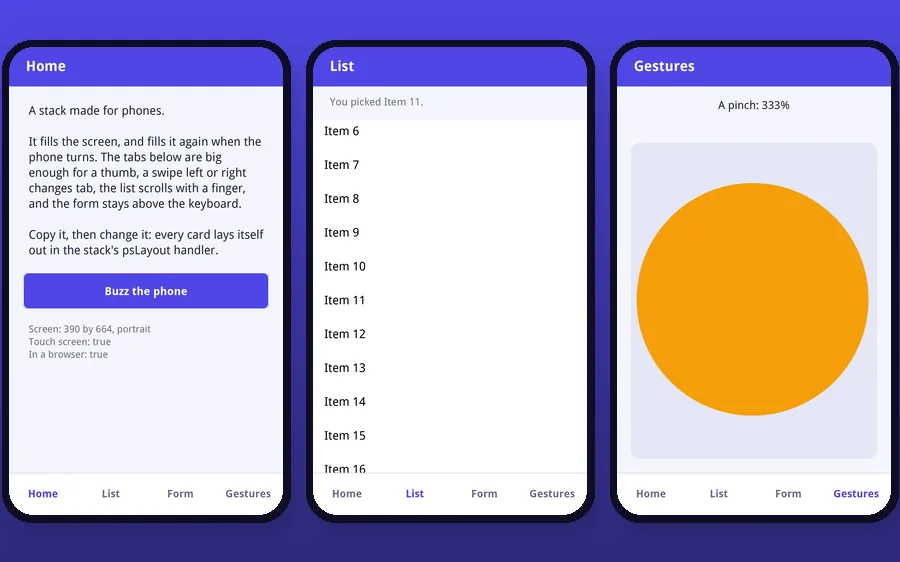
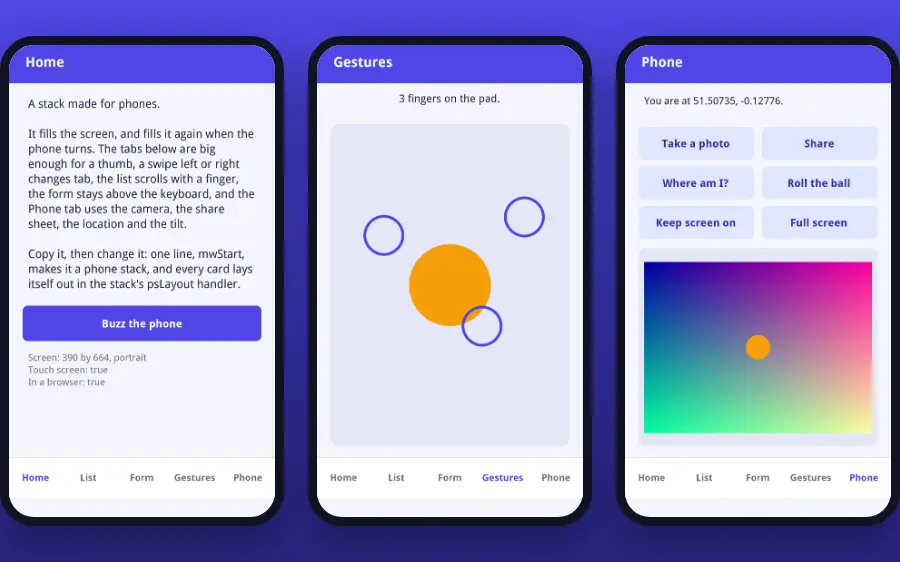
Mobile Web: a guide, Stacks for Phones, and a cleaner Phone Starter
The Dictionary's guides get "Stacks for Phones" (with Deploying Your
Application): the Phone Starter, mwStart, laying out for any screen,
touch, gestures and every finger, scrolling with a finger, the keyboard,
the phone itself, trying it in the IDE and putting it online.

The Phone Starter's buttons lose their border, its gallery picture shows
the Phone card and three fingers, and its descriptions in the Stack
Player and Home's gallery name the camera, location, tilt and share
sheet.

Claude-Session: https://claude.ai/code/session_01Kg4TH5QerDGt6XaJHK18Ja

diff --git a/tools/web-player/build_player.py b/tools/web-player/build_player.py
@@ -315,7 +315,8 @@ SAMPLES = [
     {'title': 'Phone Starter', 'source': 'stacks',
      'files': ['Phone Starter.oxtstack'], 'image': 'Phone Starter.webp',
      'description': 'A stack to copy for phones, made with the Mobile Web library: tabs for a '
-                    'thumb, swipes, a list that scrolls with a finger, a form above the keyboard.',
+                    'thumb, swipes, pinches and every finger, a list that scrolls with a finger, a '
+                    'form above the keyboard, and the camera, location, tilt and share sheet.',
      'tags': ['Phones', 'Touch', 'Starter']},
     {'title': 'Tour', 'files': ['Tour.livecode'],
      'description': 'Cards, a widget, a palette window and a script error, caught and shown.',

diff --git a/ide/Documentation/guides/Stacks for Phones.md b/ide/Documentation/guides/Stacks for Phones.md
@@ -1,0 +1,268 @@
+---
+group: deployment
+---
+# Stacks for Phones
+
+## Introduction
+
+A stack built as an HTML5 standalone runs in any modern browser, and that
+includes the browser of a phone or a tablet. Nothing needs installing:
+the user opens a link, and the stack is there. With the Mobile Web
+library, the same stack fills the phone's screen, turns with it, takes
+taps, swipes, pinches and more than one finger, stays clear of the
+on-screen keyboard and the notch, and uses the phone itself: its camera,
+its location, its tilt, its share sheet.
+
+The library is made to feel like xTalk. One line readies a stack, and
+what happens on the phone comes to the stack as messages, by the names
+LiveCode's iOS and Android engines use, sent to the control under the
+finger the way mouse messages are. On a desktop the library answers as a
+desktop would and sends nothing, so a stack can be made and tried in the
+IDE and then built for phones without changes.
+
+![](images/phone-starter.png)
+
+Figure 1 – The Phone Starter on a phone: its Home, Gestures and Phone cards
+
+## Start from the Phone Starter
+
+The quickest way in is the **Phone Starter**, in the gallery of the
+Home window and in the Stack Player. It is a stack to copy: a header, a
+tab bar for a thumb, and five cards that show each part of the library.
+
+* **Home**: what the screen is, and a buzz.
+* **List**: a long list that scrolls with a finger, where a tap picks a
+  line.
+* **Form**: fields that stay above the keyboard.
+* **Gestures**: swipes, a pinch that resizes a dot, a long press, and a
+  ring under each finger.
+* **Phone**: a photo from the camera, the share sheet, where the phone
+  is, a ball that rolls as the phone tilts, the screen kept on, and the
+  browser's bars hidden.
+
+Save a copy of it, change its cards, and keep its `psLayout` handler,
+which puts every control in its place for the size of the screen.
+
+## One line: mwStart
+
+```
+on preOpenStack
+   mwStart
+end preOpenStack
+```
+
+`mwStart` readies the default stack, or the stack it names, for a phone:
+
+* A **resizable** stack fills the browser's window, and fills it again
+  when the phone turns or the browser's bars come and go. It gets
+  `resizeStack` each time, as on a desktop, so a `resizeStack` handler or
+  the Geometry Manager lays it out.
+* A stack of a **fixed size** that is too big for the window, such as one
+  made for a desktop, is scaled down to fit, and taps still land on the
+  controls under them. While it fits, it is left as it is.
+* The gestures and the other messages below start coming.
+
+To choose by hand, name the screen as its third parameter: `mwStart
+empty, empty, "fit"`, or call `mwFillScreen` or `mwFitStack`. `mwStop`
+stops it all and gives the page back its own look.
+
+## Laying out for any screen
+
+Phones come in many sizes, and each one turns. Lay a stack out in its
+`resizeStack` handler from the size it has, not from numbers fixed when
+it was made:
+
+```
+on resizeStack pWidth, pHeight
+   set the rect of field "Notes" to 16, 72, pWidth - 16, pHeight - 80
+   set the rect of group "Tabs" to 0, pHeight - 64, pWidth, pHeight
+   pass resizeStack
+end resizeStack
+```
+
+`mwViewport()` says more about the screen, as an array:
+
+| Key | What it is |
+|-----|------------|
+| `width`, `height` | the part of the page that can be seen, without what the keyboard covers |
+| `keyboard` | how many pixels at the bottom the on-screen keyboard covers (0 when it is down) |
+| `top`, `right`, `bottom`, `left` | the safe-area insets: the pixels under a notch, a rounded corner or the home bar |
+| `orientation` | `portrait` or `landscape` |
+
+Keep buttons inside the insets, and give a short, wide screen (a phone
+on its side) a layout of its own: the Phone Starter puts its form in two
+columns there and makes its bars thinner.
+
+The current card gets `orientationChanged` when the phone turns.
+
+## Touch
+
+A finger is the mouse. A tap sends `mouseDown` and `mouseUp`, a drag
+moves the mouse, and every stack that works with a mouse works with a
+finger. Make what a finger taps big enough: about 44 pixels high or
+more.
+
+Two taps close together are a double click, as on a desktop: the second
+one sends `mouseDoubleDown` and `mouseDoubleUp`, not `mouseUp`. A button
+that a user may tap twice quickly, such as a toggle, handles both:
+
+```
+on mouseUp
+   toggleTheLight
+end mouseUp
+
+on mouseDoubleUp
+   toggleTheLight
+end mouseDoubleUp
+```
+
+### Gestures
+
+After `mwStart` these come too, to the control under the finger, and on
+up the message path to its group, card and stack, as a mouse message
+does. A card script can handle every swipe on the card, and a control
+can keep its own by handling them without passing them.
+
+| Message | When |
+|---------|------|
+| `swipe pDirection` | a quick stroke of one finger: `left`, `right`, `up` or `down` |
+| `pinchStart pX, pY` | two fingers touch |
+| `pinch pScale, pX, pY` | they move: pScale is their distance over the one at the start |
+| `pinchEnd pScale` | they let go |
+| `longPress pX, pY` | a finger held still for about half a second |
+
+```
+-- in a card's script
+on swipe pDirection
+   if pDirection is "left" then go next card
+   if pDirection is "right" then go previous card
+end swipe
+```
+
+`mwLongPressed()`, asked in `mouseUp`, tells the end of a long press from
+a tap.
+
+### Every finger
+
+For drawing, games and anything with more than one finger, each finger
+sends messages of its own, to the control it touched first:
+
+| Message | When |
+|---------|------|
+| `touchStart pId, pX, pY` | a finger touches |
+| `touchMove pId, pX, pY` | it moves (at most once a frame) |
+| `touchEnd pId, pX, pY` | it lets go |
+| `touchRelease pId, pX, pY` | the browser took the touch away, as for a call |
+
+`pId` is the same number in all of one finger's messages, so a script
+can follow several at once:
+
+```
+on touchStart pId, pX, pY
+   create graphic ("Finger" && pId)
+   set the style of it to "oval"
+   set the rect of it to pX - 20, pY - 20, pX + 20, pY + 20
+end touchStart
+
+on touchMove pId, pX, pY
+   set the loc of graphic ("Finger" && pId) to pX, pY
+end touchMove
+
+on touchEnd pId
+   delete graphic ("Finger" && pId)
+end touchEnd
+```
+
+### Scrolling with a finger
+
+A finger dragged over a field selects its text. To scroll a field or a
+group with a finger instead, call `mwDragScroll` in its `mouseDown`: it
+follows the finger, and glides on when the finger lets go. A list that
+takes a tap as picking a line asks `mwDragMoved()` in its `mouseUp`, to
+leave out the end of a drag:
+
+```
+on mouseDown
+   mwDragScroll the long id of me
+end mouseDown
+
+on mouseUp
+   if mwDragMoved() then exit mouseUp
+   answer "You picked" && the value of the clickLine
+end mouseUp
+```
+
+## The keyboard
+
+A phone's keyboard covers the bottom of the screen while a field has the
+focus. The current card gets `keyboardActivated` when it comes up (or
+changes its height) and `keyboardDeactivated` when it goes. How much
+it covers is the `keyboard` element of the array `mwViewport()` gives:
+
+```
+put mwViewport() into tScreen
+set the bottom of field "Notes" to tScreen["height"] - 8
+```
+
+ Move what is being typed in above it, and when another field gets the
+focus while the keyboard stays up, in `openField`, do the same: no
+keyboard message comes then.
+
+## The phone itself
+
+| Handler | What it does |
+|---------|--------------|
+| `mwPickPhoto pSource, pMaxWidth, pMaxHeight` | takes a photo (`camera`, `front camera`) or picks a picture (`library`), as a new image on the card; waits for it, and `the result` is `cancel` when there is none |
+| `mwStartSensor pSensor`, `mwStopSensor pSensor` | read `location`, `heading`, `acceleration` or `rotation rate`: the card gets `locationChanged`, `headingChanged`, `accelerationChanged` or `rotationRateChanged`, and `trackingError` when the user says no |
+| `mwSensorReading(pSensor)`, `mwSensorAvailable(pSensor)` | a sensor's last reading, and whether the browser can read it |
+| `mwShare pText, pURL, pTitle` | opens the phone's share sheet (or copies, where there is none) |
+| `mwKeepAwake true` | keeps the screen on while the page is open |
+| `mwFullScreen true`, `mwIsFullScreen()` | hides the browser's bars, and shows them again |
+| `mwVibrate pMilliseconds` | buzzes the phone |
+
+```
+on mouseUp
+   mwPickPhoto "camera", 800, 800
+   if the result is "cancel" then exit mouseUp
+   set the rect of last image to the rect of graphic "Frame"
+end mouseUp
+```
+
+A browser keeps some of these for the user's own choice:
+
+* The camera, the share sheet, the full screen and, on an iPhone, the
+  motion sensors open **only from a tap**: call them in `mouseUp`, not in
+  `openCard` or a timer.
+* The location, the share sheet, keeping the screen on and the motion
+  sensors need a page served over **https**.
+* The browser asks the user before it gives the location (and on an
+  iPhone, the motion): a no comes as `trackingError`.
+* What a phone cannot do, the handler says in `the result` (`not
+  supported`, `not available`), and the stack goes on: an iPhone cannot
+  buzz or hide Safari's bars, for one.
+
+Stop a sensor when it is not needed, in `closeCard`: reading one uses the
+battery.
+
+## Trying it in the IDE
+
+Every handler works in the IDE. `mwIsWeb()` and `mwIsTouchScreen()` are
+false there, the gestures and sensors send nothing, `mwPickPhoto
+"library"` asks for a picture file, and `mwShare` copies to the
+clipboard. Make the stack a phone's size (about 390 by 760) and
+resizable, and resize it to see the layout at other sizes.
+
+## Building and putting it online
+
+Build the stack for HTML5 (see *Deploying Your Application*). With
+**Search for required inclusions** on, as it is for a new stack, the
+standalone builder finds the `mw` handlers in the stack's scripts and
+includes the Mobile Web library. With **Select inclusions for the
+standalone application**, tick **Mobile Web Library** in the list of
+extensions.
+
+Put the standalone's folder on a web server that serves it over https,
+and open its page on a phone. On an iPhone, Safari deletes what a page
+keeps after some days without a visit unless the page was added to the
+home screen; `mwIsInstalled()` tells whether it was, so a stack can
+suggest it.
